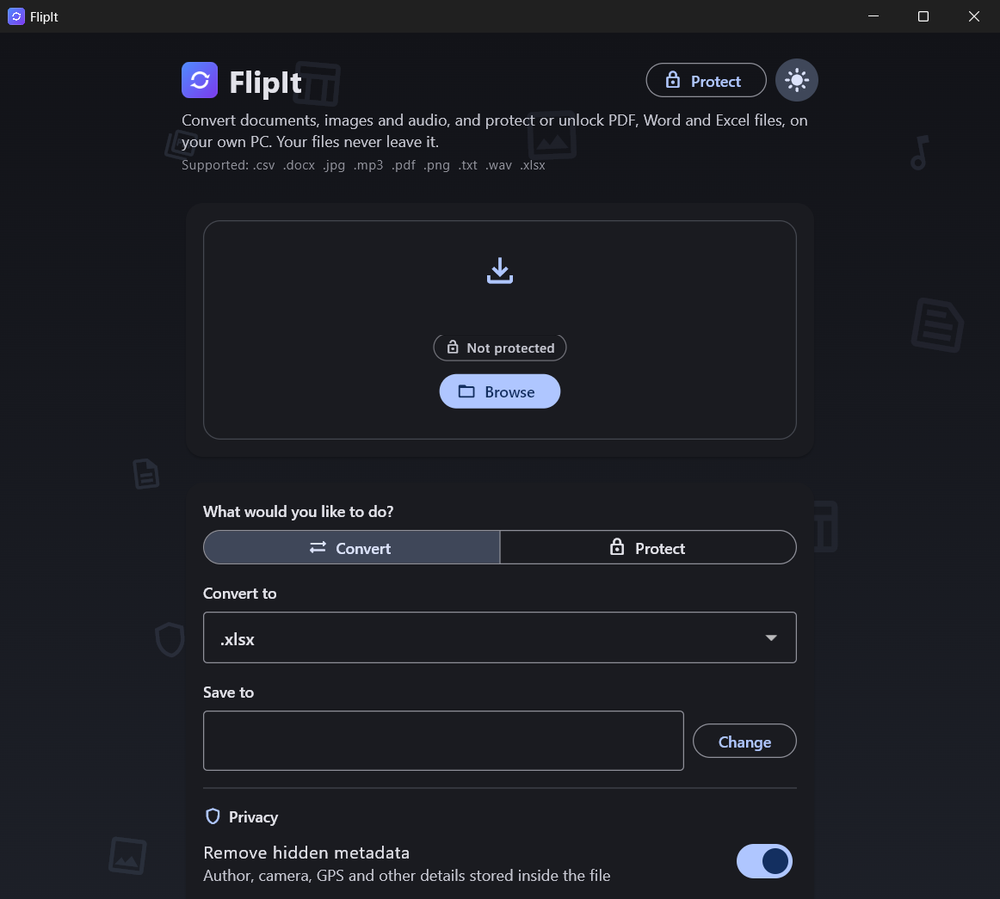
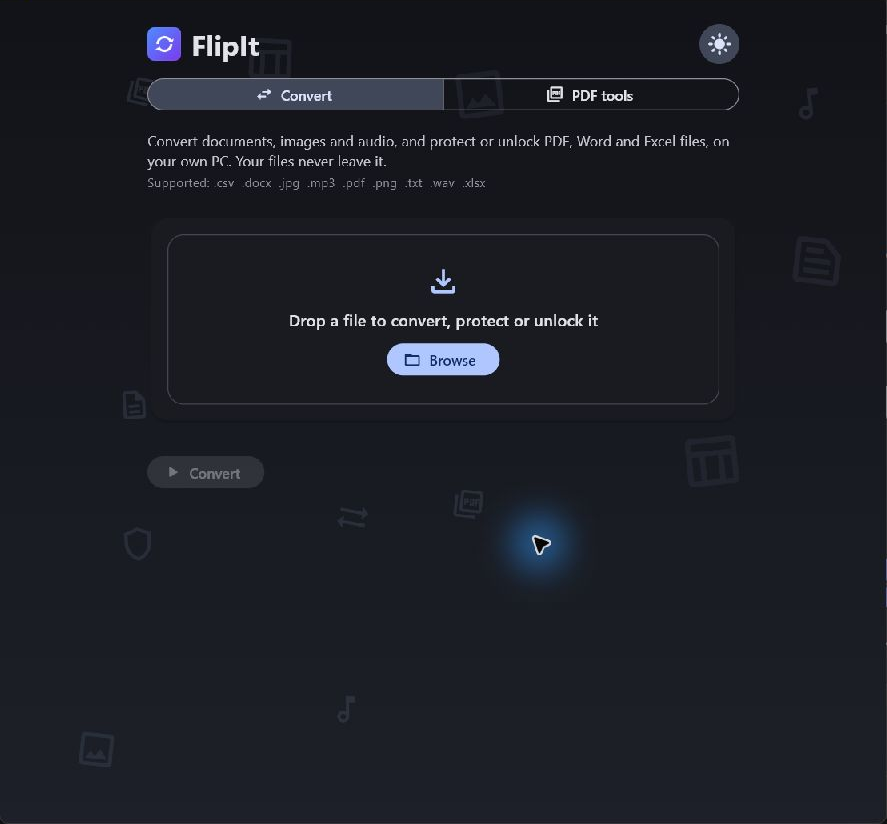
Refresh website layout and current app screenshot

diff --git a/index.html b/index.html
@@ -10,13 +10,13 @@
 <meta name="description" content="FlipIt converts documents, images and audio on your own Windows PC or Android phone, offline. Your files are never uploaded.">
 <link rel="icon" href="favicon.ico">
 <link rel="stylesheet" href="fonts.css">
-<link rel="stylesheet" href="styles.css?v=20261030-1">
+<link rel="stylesheet" href="styles.css?v=20261101-1">
 <!--og-->
 <link rel="canonical" href="https://rogueminddev-eng.github.io/flipit-website/">
 <meta property="og:type" content="website">
 <meta property="og:site_name" content="FlipIt">
 <meta property="og:title" content="FlipIt — convert files offline">
-<meta property="og:description" content="Convert files without sending them anywhere. Free, offline, no account.">
+<meta property="og:description" content="Your files.<br>Your device. Free, offline, no account.">
 <meta property="og:url" content="https://rogueminddev-eng.github.io/flipit-website/">
 <meta property="og:image" content="https://rogueminddev-eng.github.io/flipit-website/og.png">
 <meta property="og:image:width" content="1200">
@@ -24,7 +24,7 @@
 <meta property="og:image:alt" content="FlipIt: convert files without sending them anywhere">
 <meta name="twitter:card" content="summary_large_image">
 <!--/og-->
-<script src="site.js?v=20261030-1" defer></script>
+<script src="site.js?v=20261101-1" defer></script>
 </head>
 <body>
 <div class="wrap">
@@ -49,13 +49,33 @@
   <main>
     <section class="hero" aria-labelledby="hero-title">
       <div>
-        <p class="label">Offline file converter · Windows and Android</p>
-        <h1 id="hero-title">Convert files without sending them anywhere.</h1>
-        <p class="lead">Convert documents, images and audio on your own PC or phone. Your files never leave your device.</p>
+        <p class="hero-platforms">Built for Windows and Android</p>
+        <h1 id="hero-title">Your files.<br>Your device.</h1>
+        <p class="lead">Convert documents, images and audio offline. No uploads. No account.</p>
         <div class="cta"><a class="btn" href="#availability">Download</a></div>
-        <p class="hero-note">Free download for Windows and Android. No account or file uploads.</p>
+        <p class="hero-note">Free to download.</p>
       </div>
 
+      <figure class="product-view">
+        <div class="product-shot">
+          <img class="capture-light" src="app-light.png" width="887" height="824" alt="FlipIt for Windows showing the Convert and PDF tools tabs and file selection" fetchpriority="high">
+          <img class="capture-dark" src="app-dark.png" width="887" height="824" alt="FlipIt for Windows showing the Convert and PDF tools tabs and file selection" fetchpriority="high">
+        </div>
+        <figcaption class="caption">The Windows conversion view. Your files stay on your device.</figcaption>
+      </figure>
+    </section>
+
+    <section class="section" id="privacy" aria-labelledby="privacy-title">
+      <div class="section-head">
+        <h2 class="h2" id="privacy-title">Convert a file in three steps.</h2>
+      </div>
+      <ol class="how-steps">
+        <li><span class="step-label">Step 1</span><h3>Choose a file</h3><p>Open a document, photo or audio file in FlipIt.</p></li>
+        <li><span class="step-label">Step 2</span><h3>Pick a format</h3><p>Choose the format you need, such as PDF, Word or PNG.</p></li>
+        <li><span class="step-label">Step 3</span><h3>Convert and save</h3><p>Get a new copy in your chosen format. Your original stays unchanged.</p></li>
+      </ol>
+      <details class="privacy-demo">
+        <summary>See how photo details are removed</summary>
       <figure>
         <p class="label photo-example-label">Hidden details in a photo</p>
         <div class="props" id="props">
@@ -76,36 +96,23 @@
         </div>
         <figcaption class="caption">Photos can store the camera used, the date and the location. FlipIt removes these hidden details from converted photos by default. These are fictional details.</figcaption>
       </figure>
-    </section>
-
-    <section class="section" id="privacy" aria-labelledby="privacy-title">
-      <div class="section-head">
-        <p class="label">How it works</p>
-        <h2 class="h2" id="privacy-title">Convert a file in three steps.</h2>
-      </div>
-      <ol class="how-steps">
-        <li><span class="step-label">Step 1</span><h3>Choose a file</h3><p>Open a document, photo or audio file in FlipIt.</p></li>
-        <li><span class="step-label">Step 2</span><h3>Pick a format</h3><p>Choose the format you need, such as PDF, Word or PNG.</p></li>
-        <li><span class="step-label">Step 3</span><h3>Convert and save</h3><p>Get a new copy in your chosen format. Your original stays unchanged.</p></li>
-      </ol>
+      </details>
     </section>
 
     <section class="section" id="formats" aria-labelledby="formats-title">
       <div class="section-head">
-        <p class="label">Formats</p>
-        <h2 class="h2" id="formats-title">Sixteen conversions, one window</h2>
+        <p class="label">Supported formats</p>
+        <h2 class="h2" id="formats-title">Convert to the format you need</h2>
       </div>
       <div class="formats">
-        <div class="group">
-          <p class="label">Documents</p>
+        <details class="group feature-group" open><summary>Documents</summary>
           <ul class="pairs">
             <li class="pair"><span>PDF</span><span class="to">→</span><span>Word</span></li>
             <li class="pair"><span>Word</span><span class="to">→</span><span>PDF</span></li>
             <li class="pair"><span>Text</span><span class="to">→</span><span>PDF</span></li>
           </ul>
-        </div>
-        <div class="group">
-          <p class="label">Tables</p>
+        </details>
+        <details class="group feature-group" open><summary>Tables</summary>
           <ul class="pairs">
             <li class="pair"><span>PDF</span><span class="to">→</span><span>Excel</span></li>
             <li class="pair"><span>PDF</span><span class="to">→</span><span>CSV</span></li>
@@ -113,9 +120,8 @@
             <li class="pair"><span>Excel</span><span class="to">→</span><span>PDF</span></li>
             <li class="pair"><span>CSV</span><span class="to">→</span><span>Excel</span></li>
           </ul>
-        </div>
-        <div class="group">
-          <p class="label">Images</p>
+        </details>
+        <details class="group feature-group" open><summary>Images</summary>
           <ul class="pairs">
             <li class="pair"><span>JPG</span><span class="to">→</span><span>PNG</span></li>
             <li class="pair"><span>PNG</span><span class="to">→</span><span>JPG</span></li>
@@ -124,14 +130,13 @@
             <li class="pair"><span>JPG</span><span class="to">→</span><span>Word</span></li>
             <li class="pair"><span>PNG</span><span class="to">→</span><span>Word</span></li>
           </ul>
-        </div>
-        <div class="group">
-          <p class="label">Audio</p>
+        </details>
+        <details class="group feature-group" open><summary>Audio</summary>
           <ul class="pairs">
             <li class="pair"><span>MP3</span><span class="to">→</span><span>WAV</span></li>
             <li class="pair"><span>WAV</span><span class="to">→</span><span>MP3</span></li>
           </ul>
-        </div>
+        </details>
       </div>
       <p class="intro intro-wide">Windows handles batches of the same file type. Android converts one file at a time and can scan pages with the phone's camera: adjust the four corners, then save as PDF, Word, JPG or PNG. Add more scanned pages to make one PDF. Picture size options show the estimated output size before conversion.</p>
     </section>
@@ -139,49 +144,44 @@
     <section class="section" id="pdf-tools" aria-labelledby="pdf-tools-title">
       <div class="section-head">
         <p class="label">PDF tools</p>
-        <h2 class="h2" id="pdf-tools-title">Work on PDFs without uploading them</h2>
+        <h2 class="h2" id="pdf-tools-title">All your PDF tools, offline</h2>
       </div>
       <div class="formats">
-        <div class="group">
-          <p class="label">Combine and cut</p>
+        <details class="group feature-group" open><summary>Combine and cut</summary>
           <ul class="pairs">
             <li class="pair tool"><span>Merge PDFs</span></li>
             <li class="pair tool"><span>Split a PDF</span></li>
             <li class="pair tool"><span>Extract pages</span></li>
             <li class="pair tool"><span>Remove pages</span></li>
           </ul>
-        </div>
-        <div class="group">
-          <p class="label">Fix and shrink</p>
+        </details>
+        <details class="group feature-group" open><summary>Fix and shrink</summary>
           <ul class="pairs">
             <li class="pair tool"><span>Rotate pages</span></li>
             <li class="pair tool"><span>Compress a PDF</span></li>
             <li class="pair tool"><span>PDF to pictures</span></li>
             <li class="pair tool"><span>Make scanned PDFs searchable</span></li>
           </ul>
-        </div>
-        <div class="group">
-          <p class="label">Mark up</p>
+        </details>
+        <details class="group feature-group" open><summary>Mark up</summary>
           <ul class="pairs">
             <li class="pair tool"><span>Add page numbers</span></li>
             <li class="pair tool"><span>Add a watermark</span></li>
             <li class="pair tool"><span>Draw or add a signature</span></li>
           </ul>
-        </div>
-        <div class="group">
-          <p class="label">Scan</p>
+        </details>
+        <details class="group feature-group" open><summary>Scan</summary>
           <ul class="pairs">
             <li class="pair tool"><span>Several pages into one PDF (Android)</span></li>
           </ul>
-        </div>
+        </details>
       </div>
       <p class="intro intro-wide">PDF tools are available on Windows and Android. Text recognition works in English and can make mistakes. A drawn or pictured signature is a visible mark, not a certified digital signature.</p>
     </section>
 
 <section class="section" id="faq" aria-labelledby="faq-title">
       <div class="section-head">
-        <p class="label">Questions</p>
-        <h2 class="h2" id="faq-title">Quick answers</h2>
+        <h2 class="h2" id="faq-title">Questions, answered</h2>
       </div>
       <div class="faq">
         <details>
@@ -205,18 +205,16 @@
       <p class="intro intro-wide">Choose your device. Both apps work offline, with no account or file uploads.</p>
       <div class="platforms">
         <article class="platform" aria-labelledby="android-download-title">
-          <p class="label">For your phone</p>
-          <h3 class="platform-name" id="android-download-title">FlipIt for Android</h3>
+            <h3 class="platform-name" id="android-download-title">FlipIt for Android</h3>
           <p class="platform-intro">Convert a file or scan a page with the camera. Everything is processed on your phone.</p>
-          <a class="btn" href="https://github.com/rogueminddev-eng/flipit-website/releases/download/v1.2.0/FlipIt.apk" download>Download Android APK</a>
+          <a class="btn" href="https://github.com/rogueminddev-eng/flipit-website/releases/download/v1.2.0/FlipIt.apk" download>Download for Android</a>
           <p class="btn-meta">v1.2.0 · 27.2 MB · Android 8.0 or later</p>
           <details><summary>Checksum and licence</summary><p>SHA-256</p><code class="hash" id="apk-hash">3efb03ad88e3955b4909f2cdaa8b291944b7089661737d4ff180625f7947f7b6</code><button class="copy" id="copy-apk-hash" type="button">Copy checksum</button><p><a href="THIRD_PARTY_NOTICES_ANDROID.txt">Android library notices</a></p></details>
         </article>
         <article class="platform" aria-labelledby="windows-download-title">
-          <p class="label">For your PC</p>
-          <h3 class="platform-name" id="windows-download-title">FlipIt for Windows</h3>
+            <h3 class="platform-name" id="windows-download-title">FlipIt for Windows</h3>
           <p class="platform-intro">Convert documents, images and audio, including batches of the same file type.</p>
-          <a class="btn" href="https://github.com/rogueminddev-eng/flipit-website/releases/download/v1.2.0/FlipItSetup.exe" download>Download Windows installer</a>
+          <a class="btn" href="https://github.com/rogueminddev-eng/flipit-website/releases/download/v1.2.0/FlipItSetup.exe" download>Download for Windows</a>
           <p class="btn-meta">v1.2.0 · 153.5 MB · Windows 10/11, 64-bit</p>
           <p class="btn-meta">Unsigned installer. Windows may show a SmartScreen warning.</p>
           <details><summary>Checksum and licence</summary><p>SHA-256</p><code class="hash" id="hash">348b08c862e1c101a53e53d09babe1a48659175ceebb2fea09a800732d20d640</code><button class="copy" id="copy-hash" type="button">Copy checksum</button><p><a href="THIRD_PARTY_NOTICES_WINDOWS.txt">Windows library notices</a></p></details>
@@ -226,7 +224,7 @@
       <aside class="stats-card" id="site-stats" data-stats-api="https://flipit-site-stats.rouguemind-dev.workers.dev" aria-label="FlipIt website statistics">
         <p class="stats-title">FlipIt, by the numbers</p>
         <div class="stats-values">
-          <div class="stat"><span class="stat-label">Website visits</span><strong id="visit-count">—</strong></div>
+          <div class="stat"><span class="stat-label">Site visits</span><strong id="visit-count">—</strong></div>
           <div class="stat"><span class="stat-label">Android downloads</span><strong id="android-download-count">—</strong></div>
           <div class="stat"><span class="stat-label">Windows downloads</span><strong id="windows-download-count">—</strong></div>
         </div>

diff --git a/styles.css b/styles.css
@@ -1,3 +1,4 @@
+/* Hallmark preview: built from the existing FlipIt brand; targeted audit improvements. */
 :root{
   --display:"Bricolage Grotesque","Segoe UI Variable Display","Segoe UI",system-ui,sans-serif;
   --body:"Instrument Sans","Segoe UI",system-ui,sans-serif;
@@ -257,3 +258,48 @@ p,figure{margin:0}
 .screen-safe-folder{left:20.1%;top:79.6%;width:24.5%;height:4.5%}
 @media (prefers-color-scheme:dark){:root:not([data-theme="light"]) .screen-safe-label,:root[data-theme="dark"] .screen-safe-label{background:#191b22;color:#e2e4ed}}
 @media (max-width:520px){.screen-safe-label{font-size:7px}}
+
+/* Preview polish preserves the existing fonts, palette and link wiring. */
+:root{--capture-paper:#f1f2f8;--capture-ink:#20212a}
+:root[data-theme="dark"]{--capture-paper:#191b22;--capture-ink:#e2e4ed}
+html,body{overflow-x:clip}
+h1,h2,h3{overflow-wrap:break-word;min-width:0}
+.label,.step-label,.file-type,.facts dt,.stat-label{font-family:var(--body);text-transform:none;letter-spacing:0}
+.label{font-size:14px}
+.hero{grid-template-columns:minmax(0,.95fr) minmax(0,1.05fr);gap:clamp(28px,4vw,56px);padding-block:48px 72px}
+.hero h1{font-size:clamp(56px,6.8vw,88px);line-height:1.02;margin-block:20px 24px;letter-spacing:-.05em}
+.hero-platforms{font-size:15px;color:var(--ink-2)}
+.lead{max-width:29rem;font-size:20px}
+.product-view{min-width:0}
+.product-shot{overflow:hidden;border:1px solid var(--rule);border-radius:12px;background:var(--surface)}
+.product-shot img{display:block;width:100%;height:auto}
+.product-shot .capture-dark{display:none}
+:root[data-theme="dark"] .capture-light{display:none}
+:root[data-theme="dark"] .capture-dark{display:block}
+@media(prefers-color-scheme:dark){:root:not([data-theme="light"]) .capture-light{display:none}:root:not([data-theme="light"]) .capture-dark{display:block}}
+.product-view .caption{font-size:13px;max-width:none}
+.btn{min-height:48px;justify-content:center;white-space:nowrap;transition:background-color .15s ease,color .15s ease}
+.btn:hover,.btn:active{transform:none}
+.btn:focus-visible,.theme-toggle:focus-visible,.reveal:focus-visible,.copy:focus-visible,summary:focus-visible{outline:2px solid var(--accent);outline-offset:4px}
+.theme-toggle,.reveal,.copy{min-height:44px}
+.privacy-demo{margin-top:32px;border-top:1px solid var(--rule);padding-top:20px}
+.privacy-demo>summary{cursor:pointer;color:var(--ink-2);padding-block:10px;font-size:16px}
+.privacy-demo figure{max-width:44rem;margin-top:24px}
+.feature-group{border-top:1px solid var(--rule);min-width:0}
+.feature-group>summary{cursor:pointer;font:600 16px/1.4 var(--body);color:var(--ink);padding:18px 0;list-style-position:inside}
+.feature-group .pairs{border-top:0}
+.feature-group .pair{font-family:var(--body);font-size:16px}
+.feature-group .pair.tool{font-family:var(--body)}
+.section{padding-block:72px}
+.section-head{margin-bottom:28px}
+.h2{margin-top:0}
+.how-steps li{padding-top:16px}
+.stats-card{max-width:42rem;box-shadow:none}
+.stat-label{font-size:13px;line-height:1.4;color:var(--ink-2)}
+.stats-note{font-size:13px}
+.stats-card:hover{transform:none}
+.doc{max-width:46rem}
+.screen-safe-label{background:var(--capture-paper);color:var(--capture-ink)}
+@media(max-width:900px){.hero{grid-template-columns:minmax(0,1fr);gap:32px}.hero h1{font-size:clamp(56px,10vw,80px)}.product-view{max-width:42rem}}
+@media(max-width:700px){.section{padding-block:48px}.hero{padding-block:28px 48px}.hero h1{margin-block:14px 20px}.hero-note{margin-top:16px}.cta{margin-top:24px}.how-steps{gap:16px}.how-steps h3{margin-top:8px;font-size:20px}.how-steps p{margin-top:6px;font-size:16px}.formats{gap:0}.feature-group .pairs{padding-bottom:12px}.feature-group[open]>summary{color:var(--accent)}.intro-wide{font-size:16px}.platform .btn{align-self:stretch;padding-inline:12px}.platforms{gap:20px}.stats-values{grid-template-columns:minmax(0,1fr);gap:0}.stat{grid-template-columns:minmax(0,1fr) auto;align-items:center;text-align:left;padding:12px 0}.stat+.stat{border-left:0;border-top:1px solid var(--rule)}.stat-label{font-size:14px}.stat strong{font-size:26px}.stats-card{padding:18px}.product-view .caption{font-size:13px}}
+@media(prefers-reduced-motion:reduce){*,*::before,*::after{scroll-behavior:auto!important;animation:none!important;transition:none!important}.btn:hover,.stats-card:hover{transform:none}}

diff --git a/site.js b/site.js
@@ -1,9 +1,20 @@
 (function () {
   initThemeToggle();
+  initFeatureGroups();
   initRevealToggle();
   initCopyChecksum();
-  initBackdrop();
   initPublicStats();
+
+  function initFeatureGroups() {
+    var narrow = window.matchMedia('(max-width: 700px)');
+    var groups = document.querySelectorAll('.feature-group');
+    function arrange() {
+      groups.forEach(function (group) { group.open = !narrow.matches; });
+    }
+    arrange();
+    if (narrow.addEventListener) narrow.addEventListener('change', arrange);
+    else narrow.addListener(arrange);
+  }
 
   function initPublicStats() {
     var card = document.getElementById('site-stats');

diff --git a/privacy.html b/privacy.html
@@ -10,8 +10,8 @@
 <meta name="description" content="What FlipIt does with your files, passwords and data: it keeps them on your own device.">
 <link rel="icon" href="favicon.ico">
 <link rel="stylesheet" href="fonts.css">
-<link rel="stylesheet" href="styles.css?v=20261030-1">
-<script src="site.js?v=20261030-1" defer></script>
+<link rel="stylesheet" href="styles.css?v=20261101-1">
+<script src="site.js?v=20261101-1" defer></script>
 <!--og-->
 <link rel="canonical" href="https://rogueminddev-eng.github.io/flipit-website/privacy.html">
 <!--/og-->

diff --git a/changelog.html b/changelog.html
@@ -10,8 +10,8 @@
 <meta name="description" content="Release notes for FlipIt on Windows and Android.">
 <link rel="icon" href="favicon.ico">
 <link rel="stylesheet" href="fonts.css">
-<link rel="stylesheet" href="styles.css?v=20261030-1">
-<script src="site.js?v=20261030-1" defer></script>
+<link rel="stylesheet" href="styles.css?v=20261101-1">
+<script src="site.js?v=20261101-1" defer></script>
 </head>
 <body>
 <div class="wrap">
